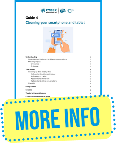
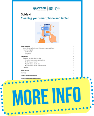
Fit from smaller frame

diff --git a/index.htm b/index.htm
@@ -55,12 +55,12 @@ ul
 
 <body link="#085296" vlink="#993366" bgcolor="#1F1F1F" style='margin:0'>
 
-<div style='position:absolute;width:14.-1611in;height:8.2309in'>
-<!--[if gte vml 1]><v:oval id="_x0000_s1119" style='position:absolute;left:36.91pt;
- top:218.57pt;width:119.37pt;height:119.37pt;z-index:1;
- mso-wrap-distance-left:2.88pt;mso-wrap-distance-top:2.88pt;
- mso-wrap-distance-right:2.88pt;mso-wrap-distance-bottom:2.88pt' fillcolor="#333"
- stroked="f" strokecolor="black [0]" strokeweight="2pt" o:cliptowrap="t">
+<div style='position:absolute;width:11.-2308in;height:6.-2087in'>
+<!--[if gte vml 1]><v:oval id="_x0000_s1119" style='position:absolute;left:5.5pt;
+ top:150.98pt;width:97.18pt;height:97.17pt;z-index:1;mso-wrap-distance-left:2.88pt;
+ mso-wrap-distance-top:2.88pt;mso-wrap-distance-right:2.88pt;
+ mso-wrap-distance-bottom:2.88pt' fillcolor="#333" stroked="f" strokecolor="black [0]"
+ strokeweight="2pt" o:cliptowrap="t">
  <v:fill color2="white [7]"/>
  <v:stroke color2="white [7]">
   <o:left v:ext="view" color="black [0]" color2="white [7]"/>
@@ -73,10 +73,10 @@ ul
  <o:extrusion v:ext="view" backdepth="0" viewpoint="0,0" viewpointorigin="0,0"/>
  <v:textbox inset="2.88pt,2.88pt,2.88pt,2.88pt"/>
 </v:oval><![endif]--><![if !vml]><span style='position:absolute;z-index:1;
-left:47px;top:289px;width:164px;height:164px'><img width=164 height=164
+left:5px;top:199px;width:134px;height:134px'><img width=134 height=134
 src="index_files/image547.png" v:shapes="_x0000_s1119"></span><![endif]><!--[if gte vml 1]><v:oval
- id="_x0000_s1132" style='position:absolute;left:214.52pt;top:421.35pt;width:119.36pt;
- height:119.37pt;z-index:2;mso-wrap-distance-left:2.88pt;
+ id="_x0000_s1132" style='position:absolute;left:137.31pt;top:316.87pt;width:97.17pt;
+ height:97.18pt;z-index:2;mso-wrap-distance-left:2.88pt;
  mso-wrap-distance-top:2.88pt;mso-wrap-distance-right:2.88pt;
  mso-wrap-distance-bottom:2.88pt' fillcolor="#333" stroked="f" strokecolor="black [0]"
  strokeweight="2pt" o:cliptowrap="t">
@@ -92,10 +92,10 @@ src="index_files/image547.png" v:shapes="_x0000_s1119"></span><![endif]><!--[if 
  <o:extrusion v:ext="view" backdepth="0" viewpoint="0,0" viewpointorigin="0,0"/>
  <v:textbox inset="2.88pt,2.88pt,2.88pt,2.88pt"/>
 </v:oval><![endif]--><![if !vml]><span style='position:absolute;z-index:2;
-left:284px;top:559px;width:164px;height:164px'><img width=164 height=164
+left:181px;top:420px;width:134px;height:135px'><img width=134 height=135
 src="index_files/image564.png" v:shapes="_x0000_s1132"></span><![endif]><!--[if gte vml 1]><v:oval
- id="_x0000_s1145" style='position:absolute;left:792.45pt;top:128.45pt;width:119.37pt;
- height:119.37pt;z-index:3;mso-wrap-distance-left:2.88pt;
+ id="_x0000_s1145" style='position:absolute;left:606.18pt;top:85.32pt;width:97.17pt;
+ height:97.17pt;z-index:3;mso-wrap-distance-left:2.88pt;
  mso-wrap-distance-top:2.88pt;mso-wrap-distance-right:2.88pt;
  mso-wrap-distance-bottom:2.88pt' fillcolor="#333" stroked="f" strokecolor="black [0]"
  strokeweight="2pt" o:cliptowrap="t">
@@ -111,10 +111,10 @@ src="index_files/image564.png" v:shapes="_x0000_s1132"></span><![endif]><!--[if 
  <o:extrusion v:ext="view" backdepth="0" viewpoint="0,0" viewpointorigin="0,0"/>
  <v:textbox inset="2.88pt,2.88pt,2.88pt,2.88pt"/>
 </v:oval><![endif]--><![if !vml]><span style='position:absolute;z-index:3;
-left:1054px;top:169px;width:164px;height:164px'><img width=164 height=164
+left:806px;top:111px;width:134px;height:135px'><img width=134 height=135
 src="index_files/image581.png" v:shapes="_x0000_s1145"></span><![endif]><!--[if gte vml 1]><v:oval
- id="_x0000_s1158" style='position:absolute;left:963.33pt;top:329.41pt;width:119.36pt;
- height:119.37pt;z-index:4;mso-wrap-distance-left:2.88pt;
+ id="_x0000_s1158" style='position:absolute;left:743.88pt;top:243.46pt;width:97.17pt;
+ height:97.18pt;z-index:4;mso-wrap-distance-left:2.88pt;
  mso-wrap-distance-top:2.88pt;mso-wrap-distance-right:2.88pt;
  mso-wrap-distance-bottom:2.88pt' fillcolor="#333" stroked="f" strokecolor="black [0]"
  strokeweight="2pt" o:cliptowrap="t">
@@ -130,10 +130,10 @@ src="index_files/image581.png" v:shapes="_x0000_s1145"></span><![endif]><!--[if 
  <o:extrusion v:ext="view" backdepth="0" viewpoint="0,0" viewpointorigin="0,0"/>
  <v:textbox inset="2.88pt,2.88pt,2.88pt,2.88pt"/>
 </v:oval><![endif]--><![if !vml]><span style='position:absolute;z-index:4;
-left:1282px;top:437px;width:164px;height:164px'><img width=164 height=164
+left:989px;top:322px;width:135px;height:135px'><img width=135 height=135
 src="index_files/image598.png" v:shapes="_x0000_s1158"></span><![endif]><!--[if gte vml 1]><v:oval
- id="_x0000_s1178" style='position:absolute;left:789.66pt;top:505.68pt;width:119.37pt;
- height:119.37pt;z-index:5;mso-wrap-distance-left:2.88pt;
+ id="_x0000_s1178" style='position:absolute;left:610.28pt;top:386.06pt;width:97.17pt;
+ height:97.17pt;z-index:5;mso-wrap-distance-left:2.88pt;
  mso-wrap-distance-top:2.88pt;mso-wrap-distance-right:2.88pt;
  mso-wrap-distance-bottom:2.88pt' fillcolor="#333" stroked="f" strokecolor="black [0]"
  strokeweight="2pt" o:cliptowrap="t">
@@ -149,11 +149,11 @@ src="index_files/image598.png" v:shapes="_x0000_s1158"></span><![endif]><!--[if 
  <o:extrusion v:ext="view" backdepth="0" viewpoint="0,0" viewpointorigin="0,0"/>
  <v:textbox inset="2.88pt,2.88pt,2.88pt,2.88pt"/>
 </v:oval><![endif]--><![if !vml]><span style='position:absolute;z-index:5;
-left:1050px;top:672px;width:165px;height:164px'><img width=165 height=164
+left:811px;top:512px;width:135px;height:135px'><img width=135 height=135
 src="index_files/image418.png" v:shapes="_x0000_s1178"></span><![endif]><!--[if gte vml 1]><v:rect
  id="_x0000_s1203"
  href="https://iba2016.sharepoint.com/sites/Sustainability2/Shared%20Documents/Digital%20Cleanup%20Challenge/Guide-4-Cleaning-your-smartphone-and-tablet.pdf?csf=1&amp;web=1&amp;e=gHqhwf"
- style='position:absolute;left:230.88pt;top:427.81pt;width:86.75pt;height:106.91pt;
+ style='position:absolute;left:150.69pt;top:321.88pt;width:70.62pt;height:87.03pt;
  z-index:6;mso-wrap-distance-left:2.88pt;mso-wrap-distance-top:2.88pt;
  mso-wrap-distance-right:2.88pt;mso-wrap-distance-bottom:2.88pt'
  o:preferrelative="t" filled="f" fillcolor="#5b9bd5 [1]" stroked="f"
@@ -171,12 +171,12 @@ src="index_files/image418.png" v:shapes="_x0000_s1178"></span><![endif]><!--[if 
  <o:extrusion v:ext="view" backdepth="0" viewpoint="0,0" viewpointorigin="0,0"/>
  <o:lock v:ext="edit" aspectratio="t"/>
 </v:rect><![endif]--><![if !vml]><span style='position:absolute;z-index:6;
-left:305px;top:568px;width:121px;height:147px'><a
+left:198px;top:427px;width:100px;height:121px'><a
 href="https://iba2016.sharepoint.com/sites/Sustainability2/Shared%20Documents/Digital%20Cleanup%20Challenge/Guide-4-Cleaning-your-smartphone-and-tablet.pdf?csf=1&amp;web=1&amp;e=gHqhwf"><img
-border=0 width=121 height=147 src="index_files/image301.png" v:shapes="_x0000_s1203"></a></span><![endif]><!--[if gte vml 1]><v:rect
+border=0 width=100 height=121 src="index_files/image3011.png" v:shapes="_x0000_s1203"></a></span><![endif]><!--[if gte vml 1]><v:rect
  id="_x0000_s1204"
  href="https://iba2016.sharepoint.com/sites/Sustainability2/Shared%20Documents/Digital%20Cleanup%20Challenge/Guide-5-Cleaning-your-emails.pdf?csf=1&amp;web=1&amp;e=yYvhSu"
- style='position:absolute;left:808.3pt;top:133.86pt;width:86.74pt;height:108.5pt;
+ style='position:absolute;left:619.47pt;top:84.32pt;width:70.62pt;height:88.33pt;
  z-index:7;mso-wrap-distance-left:2.88pt;mso-wrap-distance-top:2.88pt;
  mso-wrap-distance-right:2.88pt;mso-wrap-distance-bottom:2.88pt'
  o:preferrelative="t" filled="f" fillcolor="#5b9bd5 [1]" stroked="f"
@@ -194,12 +194,12 @@ border=0 width=121 height=147 src="index_files/image301.png" v:shapes="_x0000_s1
  <o:extrusion v:ext="view" backdepth="0" viewpoint="0,0" viewpointorigin="0,0"/>
  <o:lock v:ext="edit" aspectratio="t"/>
 </v:rect><![endif]--><![if !vml]><span style='position:absolute;z-index:7;
-left:1075px;top:176px;width:121px;height:150px'><a
+left:823px;top:110px;width:100px;height:123px'><a
 href="https://iba2016.sharepoint.com/sites/Sustainability2/Shared%20Documents/Digital%20Cleanup%20Challenge/Guide-5-Cleaning-your-emails.pdf?csf=1&amp;web=1&amp;e=yYvhSu"><img
-border=0 width=121 height=150 src="index_files/image303.png" v:shapes="_x0000_s1204"></a></span><![endif]><!--[if gte vml 1]><v:rect
+border=0 width=100 height=123 src="index_files/image3031.png" v:shapes="_x0000_s1204"></a></span><![endif]><!--[if gte vml 1]><v:rect
  id="_x0000_s1205"
  href="https://iba2016.sharepoint.com/sites/Sustainability2/Shared%20Documents/Digital%20Cleanup%20Challenge/Guide-6-Cleaning-your-social-networks.pdf?csf=1&amp;web=1&amp;e=VNxnx7"
- style='position:absolute;left:980.14pt;top:334.89pt;width:86.75pt;height:107.98pt;
+ style='position:absolute;left:757.41pt;top:248.15pt;width:70.62pt;height:87.9pt;
  z-index:8;mso-wrap-distance-left:2.88pt;mso-wrap-distance-top:2.88pt;
  mso-wrap-distance-right:2.88pt;mso-wrap-distance-bottom:2.88pt'
  o:preferrelative="t" filled="f" fillcolor="#5b9bd5 [1]" stroked="f"
@@ -217,12 +217,12 @@ border=0 width=121 height=150 src="index_files/image303.png" v:shapes="_x0000_s1
  <o:extrusion v:ext="view" backdepth="0" viewpoint="0,0" viewpointorigin="0,0"/>
  <o:lock v:ext="edit" aspectratio="t"/>
 </v:rect><![endif]--><![if !vml]><span style='position:absolute;z-index:8;
-left:1304px;top:444px;width:121px;height:149px'><a
+left:1007px;top:328px;width:100px;height:123px'><a
 href="https://iba2016.sharepoint.com/sites/Sustainability2/Shared%20Documents/Digital%20Cleanup%20Challenge/Guide-6-Cleaning-your-social-networks.pdf?csf=1&amp;web=1&amp;e=VNxnx7"><img
-border=0 width=121 height=149 src="index_files/image313.png" v:shapes="_x0000_s1205"></a></span><![endif]><!--[if gte vml 1]><v:rect
+border=0 width=100 height=123 src="index_files/image3131.png" v:shapes="_x0000_s1205"></a></span><![endif]><!--[if gte vml 1]><v:rect
  id="_x0000_s1206"
  href="https://iba2016.sharepoint.com/sites/Sustainability2/Shared%20Documents/Digital%20Cleanup%20Challenge/Guide-1-Give-a-second-life-to-your-digital-equipment.pdf?csf=1&amp;web=1&amp;e=6WCo7U"
- style='position:absolute;left:806.22pt;top:511.29pt;width:86.75pt;height:108.24pt;
+ style='position:absolute;left:623.54pt;top:389.85pt;width:70.62pt;height:88.11pt;
  z-index:9;mso-wrap-distance-left:2.88pt;mso-wrap-distance-top:2.88pt;
  mso-wrap-distance-right:2.88pt;mso-wrap-distance-bottom:2.88pt'
  o:preferrelative="t" filled="f" fillcolor="#5b9bd5 [1]" stroked="f"
@@ -240,11 +240,11 @@ border=0 width=121 height=149 src="index_files/image313.png" v:shapes="_x0000_s1
  <o:extrusion v:ext="view" backdepth="0" viewpoint="0,0" viewpointorigin="0,0"/>
  <o:lock v:ext="edit" aspectratio="t"/>
 </v:rect><![endif]--><![if !vml]><span style='position:absolute;z-index:9;
-left:1072px;top:679px;width:121px;height:150px'><a
+left:829px;top:517px;width:99px;height:123px'><a
 href="https://iba2016.sharepoint.com/sites/Sustainability2/Shared%20Documents/Digital%20Cleanup%20Challenge/Guide-1-Give-a-second-life-to-your-digital-equipment.pdf?csf=1&amp;web=1&amp;e=6WCo7U"><img
-border=0 width=121 height=150 src="index_files/image315.png" v:shapes="_x0000_s1206"></a></span><![endif]><!--[if gte vml 1]><v:rect
- id="_x0000_s1208" style='position:absolute;left:200.32pt;top:36.59pt;width:237.96pt;
- height:172.7pt;z-index:10;mso-wrap-distance-left:2.88pt;
+border=0 width=99 height=123 src="index_files/image315.png" v:shapes="_x0000_s1206"></a></span><![endif]><!--[if gte vml 1]><v:rect
+ id="_x0000_s1208" style='position:absolute;left:124.82pt;top:3.25pt;width:193.72pt;
+ height:140.59pt;z-index:10;mso-wrap-distance-left:2.88pt;
  mso-wrap-distance-top:2.88pt;mso-wrap-distance-right:2.88pt;
  mso-wrap-distance-bottom:2.88pt' o:preferrelative="t" filled="f" fillcolor="#5b9bd5 [1]"
  stroked="f" strokecolor="black [0]" strokeweight="2pt" o:cliptowrap="t">
@@ -261,10 +261,10 @@ border=0 width=121 height=150 src="index_files/image315.png" v:shapes="_x0000_s1
  <o:extrusion v:ext="view" backdepth="0" viewpoint="0,0" viewpointorigin="0,0"/>
  <o:lock v:ext="edit" aspectratio="t"/>
 </v:rect><![endif]--><![if !vml]><span style='position:absolute;z-index:10;
-left:265px;top:46px;width:322px;height:236px'><img width=322 height=236
+left:164px;top:2px;width:263px;height:192px'><img width=263 height=192
 src="index_files/image318.png" v:shapes="_x0000_s1208"></span><![endif]><!--[if gte vml 1]><v:rect
- id="_x0000_s1209" style='position:absolute;left:75.87pt;top:265.5pt;width:211.97pt;
- height:138.74pt;z-index:11;mso-wrap-distance-left:2.88pt;
+ id="_x0000_s1209" style='position:absolute;left:23.34pt;top:191.48pt;width:172.56pt;
+ height:112.95pt;z-index:11;mso-wrap-distance-left:2.88pt;
  mso-wrap-distance-top:2.88pt;mso-wrap-distance-right:2.88pt;
  mso-wrap-distance-bottom:2.88pt' o:preferrelative="t" filled="f" fillcolor="#5b9bd5 [1]"
  stroked="f" strokecolor="black [0]" strokeweight="2pt" o:cliptowrap="t">
@@ -281,10 +281,10 @@ src="index_files/image318.png" v:shapes="_x0000_s1208"></span><![endif]><!--[if 
  <o:extrusion v:ext="view" backdepth="0" viewpoint="0,0" viewpointorigin="0,0"/>
  <o:lock v:ext="edit" aspectratio="t"/>
 </v:rect><![endif]--><![if !vml]><span style='position:absolute;z-index:11;
-left:99px;top:352px;width:287px;height:190px'><img width=287 height=190
+left:29px;top:253px;width:235px;height:155px'><img width=235 height=155
 src="index_files/image328.png" v:shapes="_x0000_s1209"></span><![endif]><!--[if gte vml 1]><v:rect
- id="_x0000_s1211" style='position:absolute;left:322.27pt;top:367.32pt;width:239.82pt;
- height:167.4pt;z-index:12;mso-wrap-distance-left:2.88pt;
+ id="_x0000_s1211" style='position:absolute;left:226pt;top:272.64pt;width:195.23pt;
+ height:136.27pt;z-index:12;mso-wrap-distance-left:2.88pt;
  mso-wrap-distance-top:2.88pt;mso-wrap-distance-right:2.88pt;
  mso-wrap-distance-bottom:2.88pt' o:preferrelative="t" filled="f" fillcolor="#5b9bd5 [1]"
  stroked="f" strokecolor="black [0]" strokeweight="2pt" o:cliptowrap="t">
@@ -301,10 +301,10 @@ src="index_files/image328.png" v:shapes="_x0000_s1209"></span><![endif]><!--[if 
  <o:extrusion v:ext="view" backdepth="0" viewpoint="0,0" viewpointorigin="0,0"/>
  <o:lock v:ext="edit" aspectratio="t"/>
 </v:rect><![endif]--><![if !vml]><span style='position:absolute;z-index:12;
-left:427px;top:487px;width:325px;height:228px'><img width=325 height=228
+left:299px;top:361px;width:265px;height:187px'><img width=265 height=187
 src="index_files/image331.png" v:shapes="_x0000_s1211"></span><![endif]><!--[if gte vml 1]><v:rect
- id="_x0000_s1213" style='position:absolute;left:449.13pt;top:147.13pt;width:353.63pt;
- height:95.23pt;z-index:13;mso-wrap-distance-left:2.88pt;
+ id="_x0000_s1213" style='position:absolute;left:328.89pt;top:95.12pt;width:287.88pt;
+ height:77.53pt;z-index:13;mso-wrap-distance-left:2.88pt;
  mso-wrap-distance-top:2.88pt;mso-wrap-distance-right:2.88pt;
  mso-wrap-distance-bottom:2.88pt' o:preferrelative="t" filled="f" fillcolor="#5b9bd5 [1]"
  stroked="f" strokecolor="black [0]" strokeweight="2pt" o:cliptowrap="t">
@@ -321,10 +321,10 @@ src="index_files/image331.png" v:shapes="_x0000_s1211"></span><![endif]><!--[if 
  <o:extrusion v:ext="view" backdepth="0" viewpoint="0,0" viewpointorigin="0,0"/>
  <o:lock v:ext="edit" aspectratio="t"/>
 </v:rect><![endif]--><![if !vml]><span style='position:absolute;z-index:13;
-left:596px;top:194px;width:477px;height:132px'><img width=477 height=132
-src="index_files/image339.png" v:shapes="_x0000_s1213"></span><![endif]><!--[if gte vml 1]><v:rect
- id="_x0000_s1214" style='position:absolute;left:634.82pt;top:290.33pt;width:341.69pt;
- height:152.54pt;z-index:14;mso-wrap-distance-left:2.88pt;
+left:436px;top:124px;width:389px;height:109px'><img width=389 height=109
+src="index_files/image3391.png" v:shapes="_x0000_s1213"></span><![endif]><!--[if gte vml 1]><v:rect
+ id="_x0000_s1214" style='position:absolute;left:476pt;top:211.99pt;width:278.16pt;
+ height:124.18pt;z-index:14;mso-wrap-distance-left:2.88pt;
  mso-wrap-distance-top:2.88pt;mso-wrap-distance-right:2.88pt;
  mso-wrap-distance-bottom:2.88pt' o:preferrelative="t" filled="f" fillcolor="#5b9bd5 [1]"
  stroked="f" strokecolor="black [0]" strokeweight="2pt" o:cliptowrap="t">
@@ -341,10 +341,10 @@ src="index_files/image339.png" v:shapes="_x0000_s1213"></span><![endif]><!--[if 
  <o:extrusion v:ext="view" backdepth="0" viewpoint="0,0" viewpointorigin="0,0"/>
  <o:lock v:ext="edit" aspectratio="t"/>
 </v:rect><![endif]--><![if !vml]><span style='position:absolute;z-index:14;
-left:844px;top:385px;width:461px;height:208px'><img width=461 height=208
+left:632px;top:280px;width:376px;height:171px'><img width=376 height=171
 src="index_files/image340.png" v:shapes="_x0000_s1214"></span><![endif]><!--[if gte vml 1]><v:rect
- id="_x0000_s1215" style='position:absolute;left:590.53pt;top:489.28pt;width:212.23pt;
- height:130.25pt;z-index:15;mso-wrap-distance-left:2.88pt;
+ id="_x0000_s1215" style='position:absolute;left:446.69pt;top:371.92pt;width:172.78pt;
+ height:106.04pt;z-index:15;mso-wrap-distance-left:2.88pt;
  mso-wrap-distance-top:2.88pt;mso-wrap-distance-right:2.88pt;
  mso-wrap-distance-bottom:2.88pt' o:preferrelative="t" filled="f" fillcolor="#5b9bd5 [1]"
  stroked="f" strokecolor="black [0]" strokeweight="2pt" o:cliptowrap="t">
@@ -361,10 +361,10 @@ src="index_files/image340.png" v:shapes="_x0000_s1214"></span><![endif]><!--[if 
  <o:extrusion v:ext="view" backdepth="0" viewpoint="0,0" viewpointorigin="0,0"/>
  <o:lock v:ext="edit" aspectratio="t"/>
 </v:rect><![endif]--><![if !vml]><span style='position:absolute;z-index:15;
-left:785px;top:650px;width:288px;height:179px'><img width=288 height=179
+left:593px;top:493px;width:235px;height:147px'><img width=235 height=147
 src="index_files/image342.png" v:shapes="_x0000_s1215"></span><![endif]><!--[if gte vml 1]><v:rect
- id="_x0000_s1216" style='position:absolute;left:287.84pt;top:206.87pt;width:514.92pt;
- height:296.59pt;z-index:16;mso-wrap-distance-left:2.88pt;
+ id="_x0000_s1216" style='position:absolute;left:195.9pt;top:142.85pt;width:419.18pt;
+ height:241.45pt;z-index:16;mso-wrap-distance-left:2.88pt;
  mso-wrap-distance-top:2.88pt;mso-wrap-distance-right:2.88pt;
  mso-wrap-distance-bottom:2.88pt' o:preferrelative="t" filled="f" fillcolor="#5b9bd5 [1]"
  stroked="f" strokecolor="black [0]" strokeweight="2pt" o:cliptowrap="t">
@@ -381,11 +381,11 @@ src="index_files/image342.png" v:shapes="_x0000_s1215"></span><![endif]><!--[if 
  <o:extrusion v:ext="view" backdepth="0" viewpoint="0,0" viewpointorigin="0,0"/>
  <o:lock v:ext="edit" aspectratio="t"/>
 </v:rect><![endif]--><![if !vml]><span style='position:absolute;z-index:16;
-left:381px;top:273px;width:692px;height:401px'><img width=692 height=401
+left:259px;top:188px;width:564px;height:327px'><img width=564 height=327
 src="index_files/image344.png" v:shapes="_x0000_s1216"></span><![endif]><!--[if gte vml 1]><v:rect
  id="_x0000_s1202"
  href="https://iba2016.sharepoint.com/sites/Sustainability2/Shared%20Documents/Digital%20Cleanup%20Challenge/Guide-3-Clean-your-computer-and-your-Drive.pdf?csf=1&amp;web=1&amp;e=nV0ICs"
- style='position:absolute;left:52.9pt;top:224.81pt;width:86.75pt;height:106.38pt;
+ style='position:absolute;left:18.78pt;top:156.26pt;width:70.62pt;height:86.6pt;
  z-index:17;mso-wrap-distance-left:2.88pt;mso-wrap-distance-top:2.88pt;
  mso-wrap-distance-right:2.88pt;mso-wrap-distance-bottom:2.88pt'
  o:preferrelative="t" filled="f" fillcolor="#5b9bd5 [1]" stroked="f"
@@ -403,9 +403,9 @@ src="index_files/image344.png" v:shapes="_x0000_s1216"></span><![endif]><!--[if 
  <o:extrusion v:ext="view" backdepth="0" viewpoint="0,0" viewpointorigin="0,0"/>
  <o:lock v:ext="edit" aspectratio="t"/>
 </v:rect><![endif]--><![if !vml]><span style='position:absolute;z-index:17;
-left:68px;top:297px;width:121px;height:147px'><a
+left:23px;top:206px;width:99px;height:120px'><a
 href="https://iba2016.sharepoint.com/sites/Sustainability2/Shared%20Documents/Digital%20Cleanup%20Challenge/Guide-3-Clean-your-computer-and-your-Drive.pdf?csf=1&amp;web=1&amp;e=nV0ICs"><img
-border=0 width=121 height=147 src="index_files/image299.png" v:shapes="_x0000_s1202"></a></span><![endif]>
+border=0 width=99 height=120 src="index_files/image299.png" v:shapes="_x0000_s1202"></a></span><![endif]>
 </div>
 
 </body>
